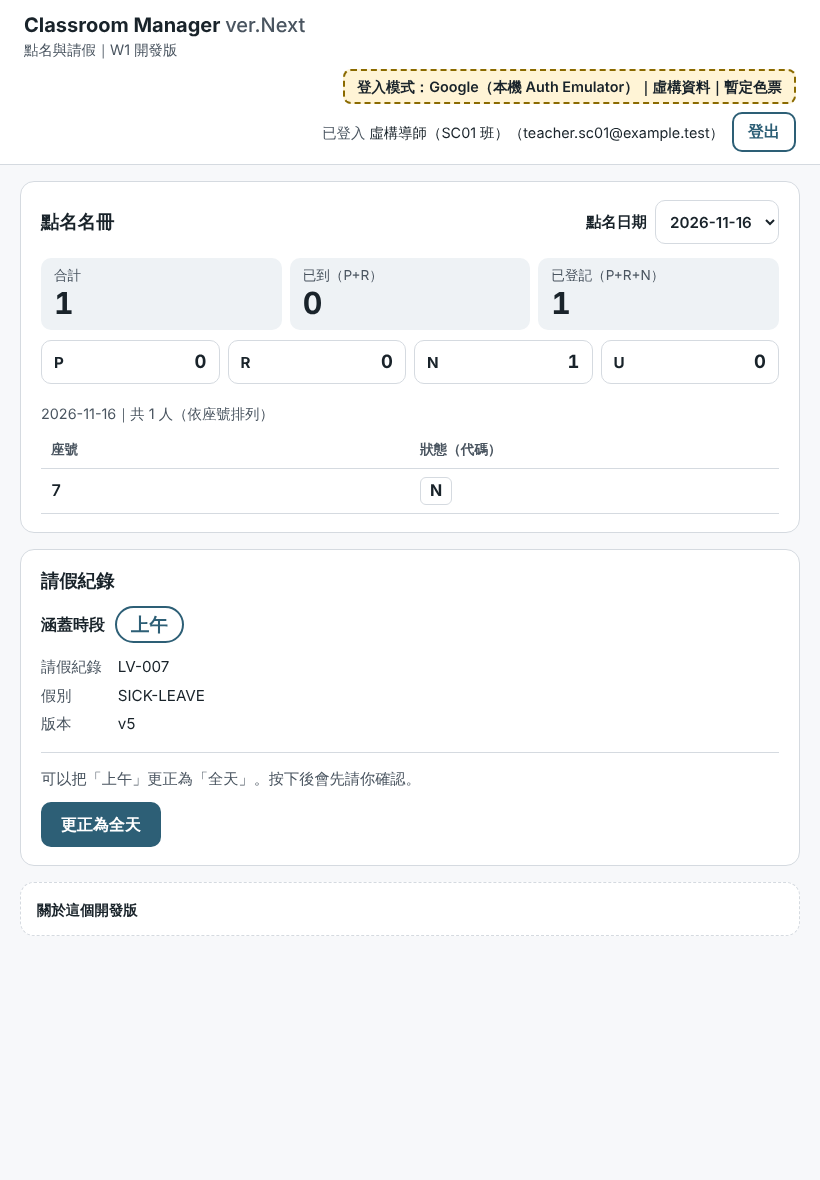
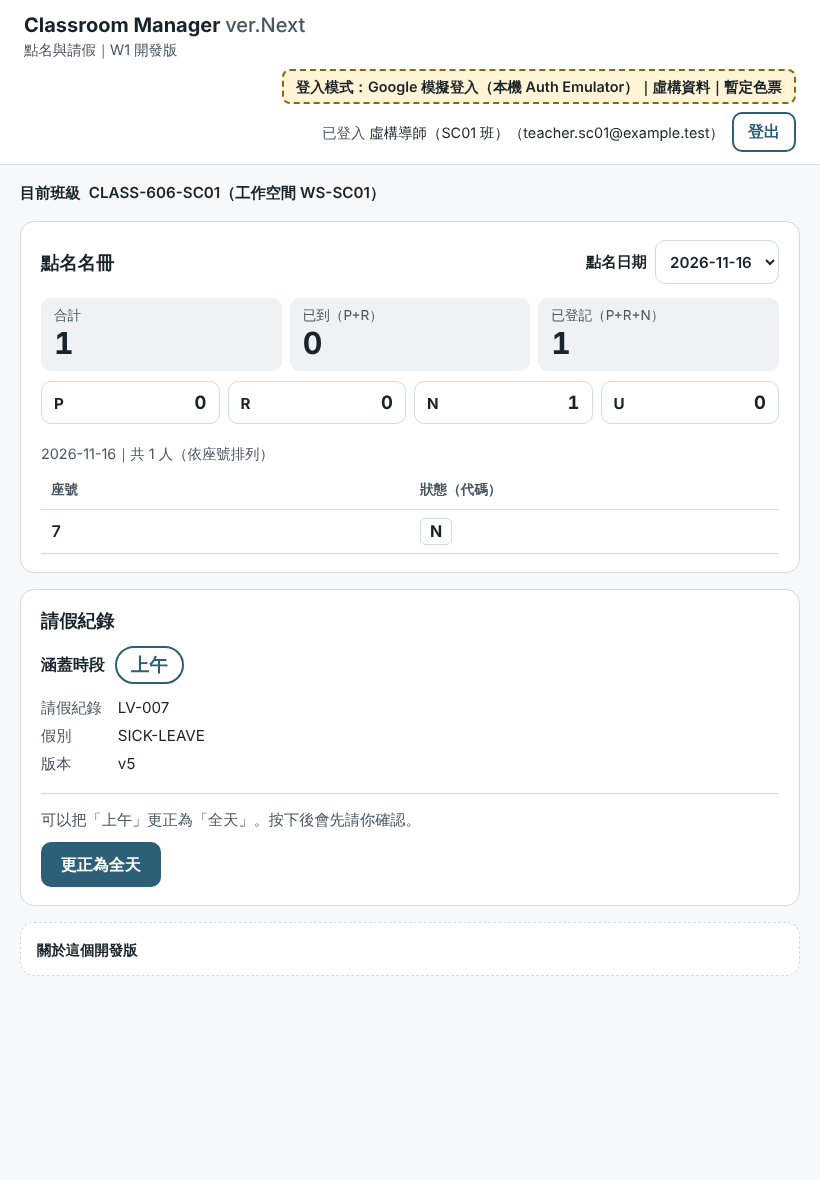
docs(firebase): HANDOFF second batch (real mode) — tests, owner steps, gaps; login screens + results at 3e04316
Claude-Session: https://claude.ai/code/session_014McEMWSCpRe8iHuQm8L34P

diff --git a/docs/HANDOFF.md b/docs/HANDOFF.md
@@ -1,13 +1,70 @@
 # HANDOFF｜目前工作與交接狀態
 
-## 目前狀態（2026-11-28）
+## 目前狀態（2026-11-28，第二批：Firebase 實際模式）
 
-- 目前任務：**Google 登入**（負責人決定，2026-11-28）：
-  - 資料庫確定使用 Firebase（Cloud Firestore）；
-  - 新增 Google 登入、登出與登入狀態；
-  - 使用者只能看到後端授權給自己的 W1 資料。
-- 分支 `claude/w1-google-login`，基準 `main` `7958af3`（PR #5 合併）。L3：授權相關。
-- 上游 API 仍固定 `1e20989`，**沒有修改**：它在 Emulator 模式就已逐次驗證 token、以 `authBindings/{uid}` 授權。
+- 目前任務：**Firebase 實際模式**（負責人指示）：
+  - Cloud Firestore 加上 Firebase Authentication（Google）；
+  - 受控 API 驗證**真實**的 Firebase ID token；
+  - 第一個可完整操作的版本。
+- 分支 `claude/firebase-real-mode`，從 PR #6（`002e667`，模擬登入，**尚未合併**）接續。基準 `main` `7958af3`：PR #5 已合併，含 R1 的修正 `ff9ea2d`；PR #4 已合併。
+- 上游 `class-management-next` **沒有修改**：受控 API 的業務邏輯以 `1e20989` 的逐字複本放在 `server/upstream/`，由 `npm test` 核對 SHA-256，也與上游 git 歷史逐字比對。
+
+### 第二批改了什麼
+
+| 部分 | 內容 |
+|---|---|
+| API 位置 | `server/`：受控 API 移到本 repository。授權、請求格式、交易／版本／operationId／收據，都是上游逐字複本；只 fork 憑證、端點、token 驗證這一層 |
+| 兩種模式 | `CMN_API_MODE=emulator｜firebase`。真實模式：專案 ID 要輸入兩次；拒絕 `demo-`；設有 `*_EMULATOR_HOST` 就拒絕；只能連該專案的 Firestore 文件與 `accounts:lookup` |
+| 真實 token 驗證 | `server/token-firebase.mjs`：RS256、Google 憑證、`iss`／`aud`／`sub`／時間；`accounts:lookup` 確認帳號存在、未停用、未撤銷（`auth_time` 與 `validSince` 比較，同 Admin SDK） |
+| API 自己的憑證 | `server/credentials.mjs`：負責人的 ADC（authorized_user）或 metadata；**拒絕服務帳戶金鑰檔** |
+| Firestore Rules | `firestore.rules`：用戶端一律拒絕 |
+| 開通帳號 | `server/admin.mjs`：bind／unbind／list／seed-fictional；只由負責人執行，有稽核；沒有自助加入，也沒有第一位管理員 |
+| 真實模式執行 | `server/main.mjs`：網頁與 API 在 `localhost:18400`；`signInWithPopup`；CSP 只多允許 Google 登入的主機 |
+| 頁面 | 永遠顯示目前班級；「尚未取得班級存取權」畫面顯示 UID（供負責人 `bind`） |
+| 啟動器 | Emulator 的 stack 改用**本 repository 的 API**（emulator 後端），前後仍是上游的 trace proxy，所有既有的驗收照舊 |
+
+### 操作
+
+- **模擬登入（Emulator）**：`docs/LOGIN.md`。
+- **真實 Google 登入（開發用專案）**：`docs/SETUP-FIREBASE.md`，需要負責人先完成 Console 設定。
+
+### 測試（作者，Linux，`3e04316`，工作目錄乾淨）
+
+| 類別 | 結果 | 說明 |
+|---|---|---|
+| `npm test` | **75/75** | 含模式防護 12 項、憑證 5 項、真實 token 驗證：偽造、未簽章、錯誤的 key、過期、其他專案、停用、撤銷、無法連線；URL 白名單；逐字複本的雜湊與上游 git 比對（`CMN_UPSTREAM_ROOT`） |
+| `e2e-login`（模擬登入） | **17/17** | L1～L13；L14 用戶端以自己的 token 直接寫 binding、membership 或讀資料都 403（本 repository 的 rules），沒有開通的 API 路由，偽造的 `principalId`／`role` 欄位 403；L15 管理腳本開通與撤銷 |
+| `firebase-mode`（真實模式程式路徑，Emulator） | **5/5** | `firebase` 後端：以測試金鑰簽章的 RS256 token；Emulator 的未簽章 token 被拒；交易規則（同一操作得到同一收據、內容不同→`OPERATION_REUSE_MISMATCH`、舊版本→`VERSION_CONFLICT`、只有 1 筆 revision、點名不變）；帳號停用、撤銷、binding 停用。**不是**真實 Google |
+| `e2e`（測試情境） | 21/21 | 改用本 repository 的 API 之後，原本的 11 項驗收照舊 |
+| `screens` | 36/36 | |
+| `launcher:test` | 4/4 | |
+| Mutation | 3 個都抓到 | 拿掉清除 → 3 項失敗；拿掉 UID 綁定 → L10 失敗；拿掉 403 的重新檢查 → L12 失敗；拿掉簽章檢查 → 單元測試 2 項失敗 |
+
+- **未執行**：
+  - **真實 Google 登入與真實 Cloud Firestore**：需要負責人的開發用專案與 ADC，見下方；
+  - Windows 上的新測試；
+  - 多裝置使用：需要部署。
+- `main.mjs` 的防護已實際確認：缺設定、專案不一致、缺 web config、設有 emulator 變數，都會 `REFUSED`。
+
+### 待負責人操作（`docs/SETUP-FIREBASE.md`）
+
+1. 建立開發用 Firebase 專案：
+   - Firestore 以正式版模式建立；
+   - 啟用 Google 登入；
+   - 確認授權網域有 `localhost`；
+   - 註冊網頁應用程式，把公開設定存成 `dev/firebase-web-config.json`。
+2. 安裝 gcloud，然後執行 `gcloud auth application-default login` 與 `set-quota-project`。
+3. 執行 `node server\admin.mjs seed-fictional ...` → `node server\main.mjs` → 用自己的 Google 帳號登入 → 看到 UID → `node server\admin.mjs bind --uid <UID> --principal ACTOR-SC01-TEACHER` → 按「重新檢查」。
+4. 回報結果（SETUP-FIREBASE.md 第 D 節）。
+
+### 缺口與待決（SPEC §12.8）
+
+- **G-A**：沒有「我的班級」API；目前以 W1 的固定目標詢問 API。
+- **G-B**：沒有管理介面。
+- **G-C**：多裝置使用需要部署：Hosting、Cloud Run、Blaze，需要負責人同意。
+- L-1（建議：管理腳本）、L-3（真實模式的 CSP 例外，已實作，待核准）、L-4（開發用專案）。
+
+## 第一批：Google 登入（模擬；PR #6）
 
 ### 本批改了什麼
 
@@ -340,3 +397,5 @@
 | 2026-11-27 | Claude | 只更新 HANDOFF；程式和 `93e3837` 相同；交負責人決定合併 |
 | 2026-11-28 | 負責人 → Claude | Firebase／Cloud Firestore 確定；新增 Google 登入；直接實作 |
 | 2026-11-28 | Claude | Google 登入（模擬，`f141bcc`）：e2e-login 15/15、E2E 21/21、單元 36/36；L3 PR；待決 L-1～L-4 |
+| 2026-11-28 | 負責人 → Claude | 直接實作 Firebase 實際模式（Firestore、Google 登入），不部署、不付費、不用真實資料 |
+| 2026-11-28 | Claude | 真實模式（`3e04316`）：npm test 75/75、e2e-login 17/17、firebase-mode 5/5、e2e 21/21；L3 PR；待負責人設定開發用專案 |

diff --git a/docs/acceptance/login/SCREENS.md b/docs/acceptance/login/SCREENS.md
@@ -1,9 +1,9 @@
 # Google 登入（模擬）的實際畫面
 
-> - 產生的版本：`f141bcc41576bac0ce2b8cfe9f6344195246df45`（分支 `claude/w1-google-login`，工作目錄乾淨），作者在 Linux 執行，2026-11-27。
+> - 產生的版本：`3e043168531b60e1d04bda9de63a4797c53862da`（分支 `claude/firebase-real-mode`，工作目錄乾淨），作者在 Linux 執行，2026-11-27。
 > - `npm run e2e -- --upstream <path> --script e2e-login`：真正的頁面、本機 Auth／Firestore Emulator、固定版本的 API `1e20989`。
 > - **模擬登入**：Auth Emulator 的 Google provider 與虛構帳號，**不是**真的 Google 登入。
-> - 結果：`e2e-login-results.json`（15/15）。色彩與樣式都是暫定。
+> - 結果：`e2e-login-results.json`（17/17）；真實模式程式路徑在 Emulator 的結果：`firebase-mode-results.json`（5/5，以測試金鑰簽章，**不是**真實 Google）。色彩與樣式都是暫定。
 
 **未登入：只有「請先登入」**
 
@@ -17,7 +17,7 @@
 
 ![模擬登入的帳號選擇窗（虛構帳號）](screens/L2-chooser-1440.png)
 
-**已登入、沒有授權：「尚未取得班級存取權」**
+**已登入、沒有授權：「尚未取得班級存取權」，顯示 UID 供管理者開通**
 
 ![已登入、沒有授權：「尚未取得班級存取權」](screens/L4-no-access-1440.png)
 
